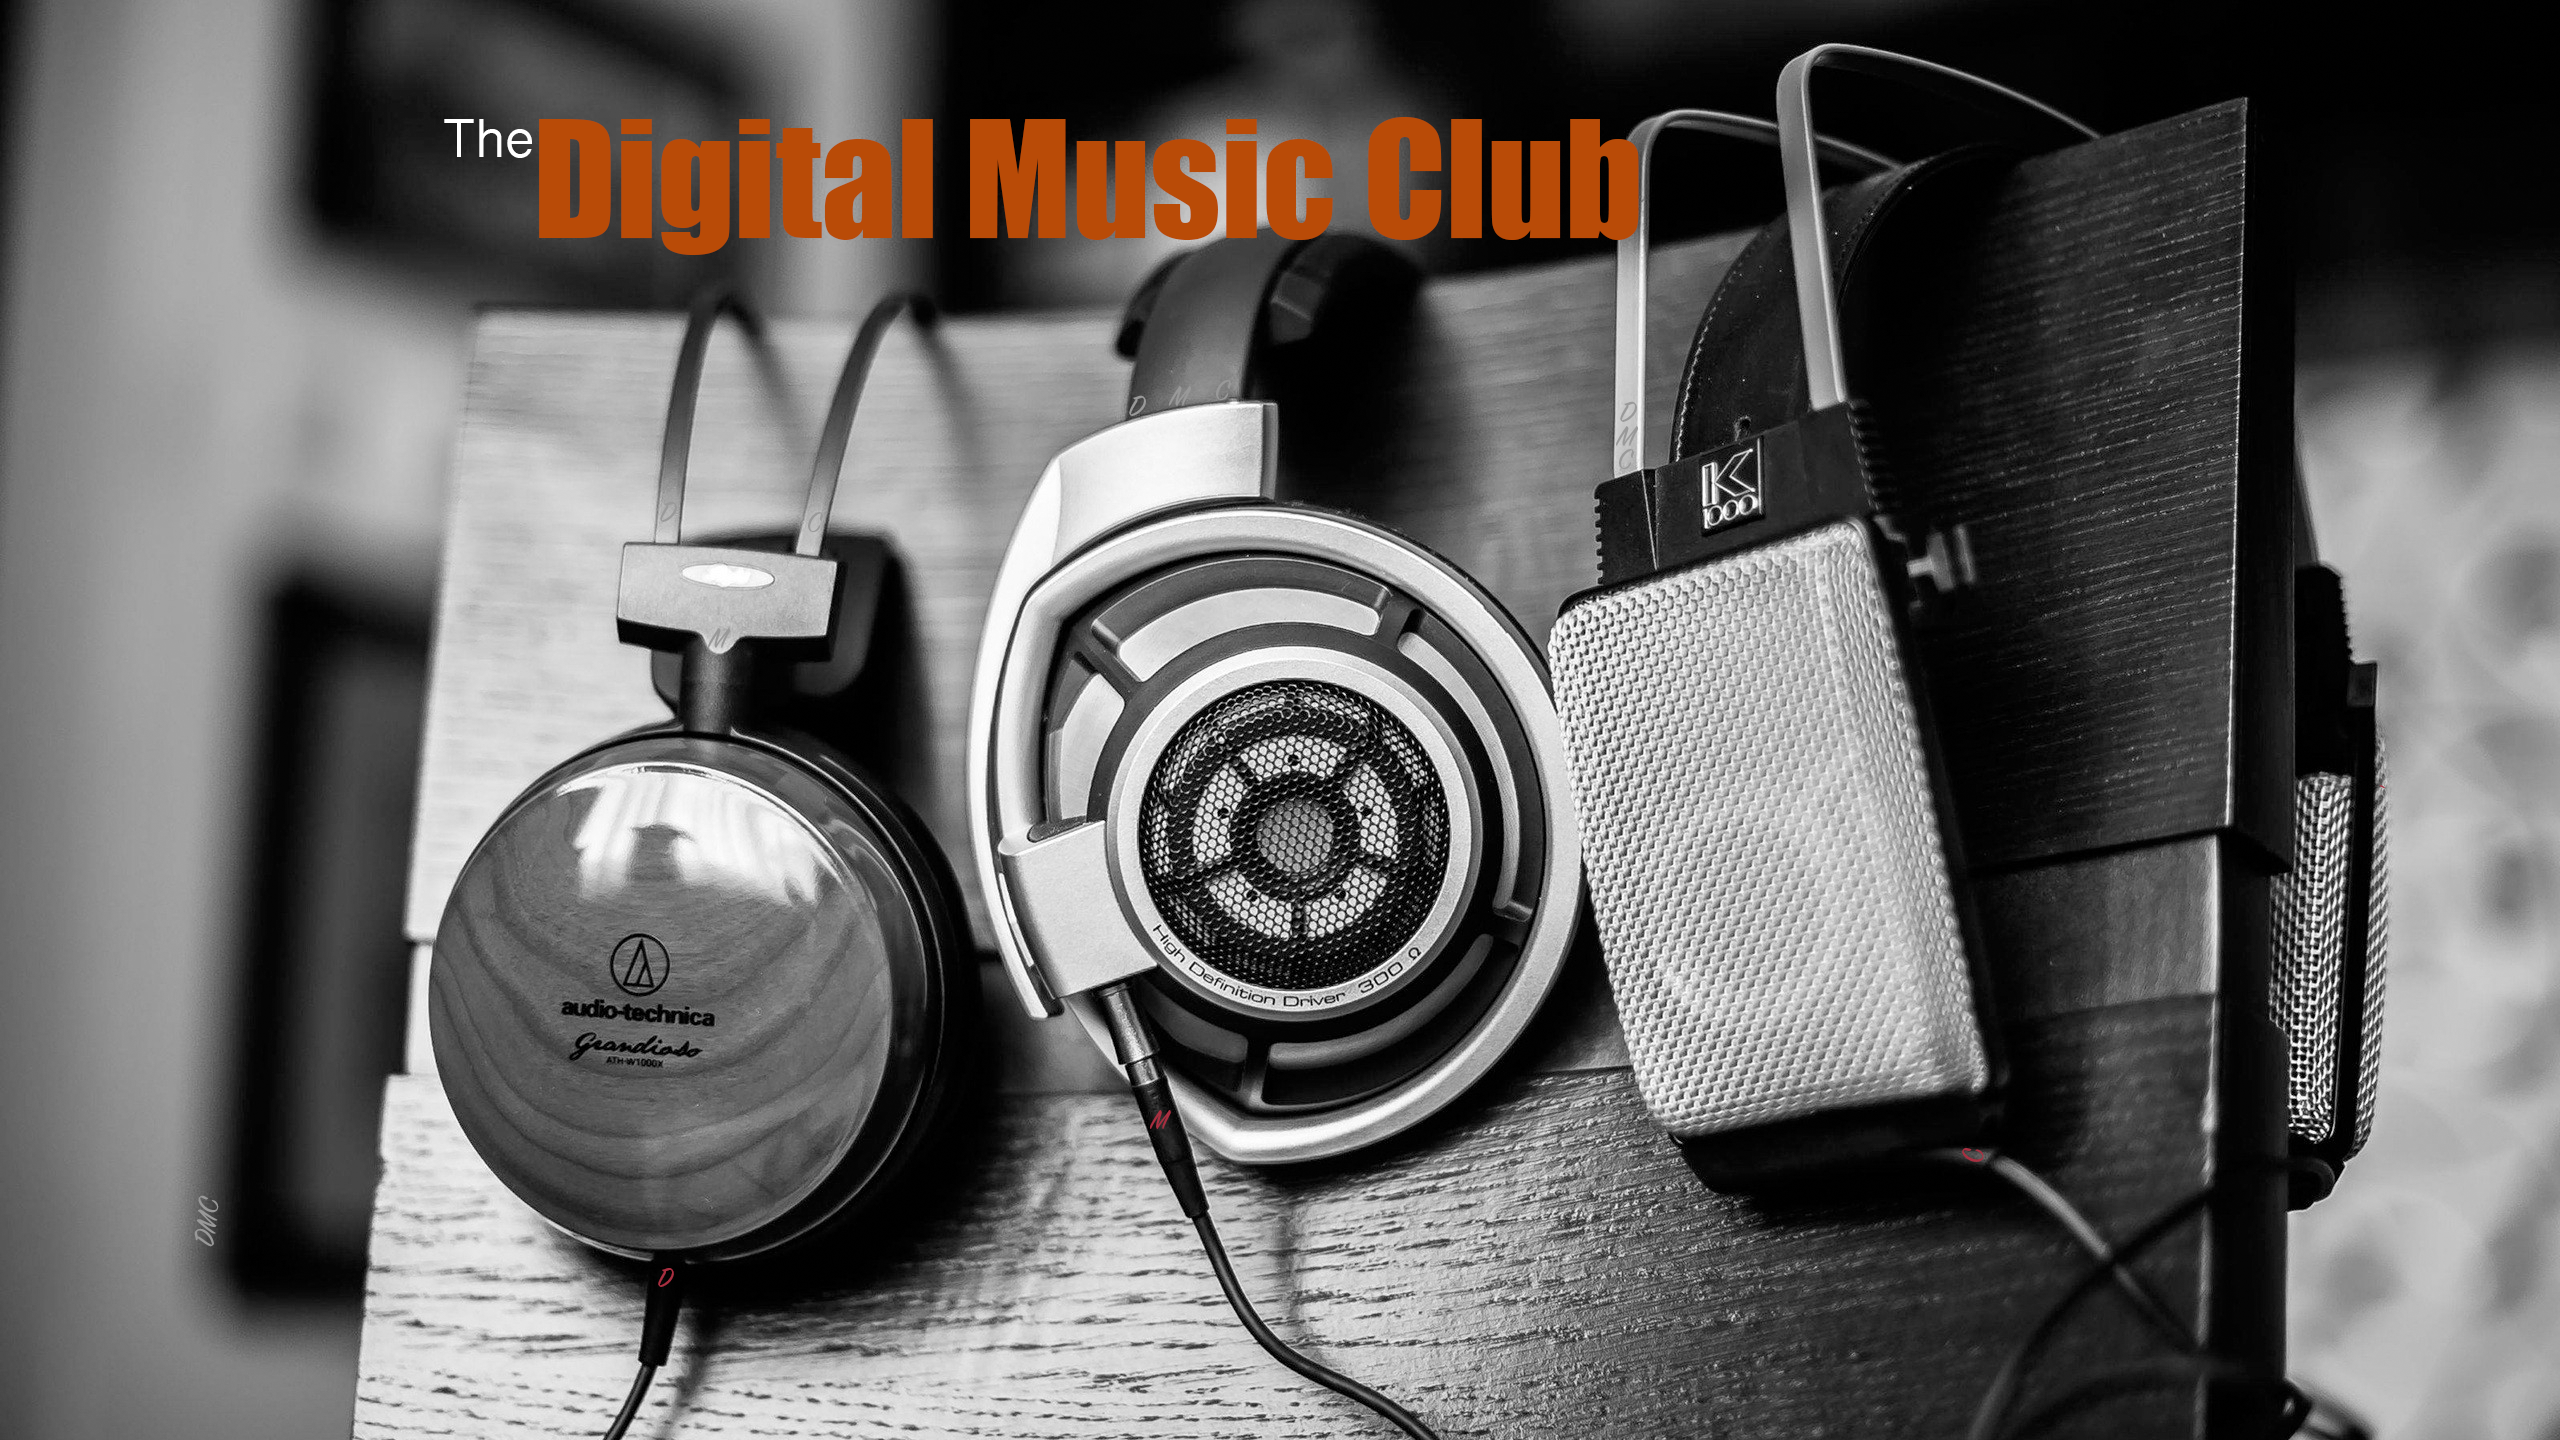
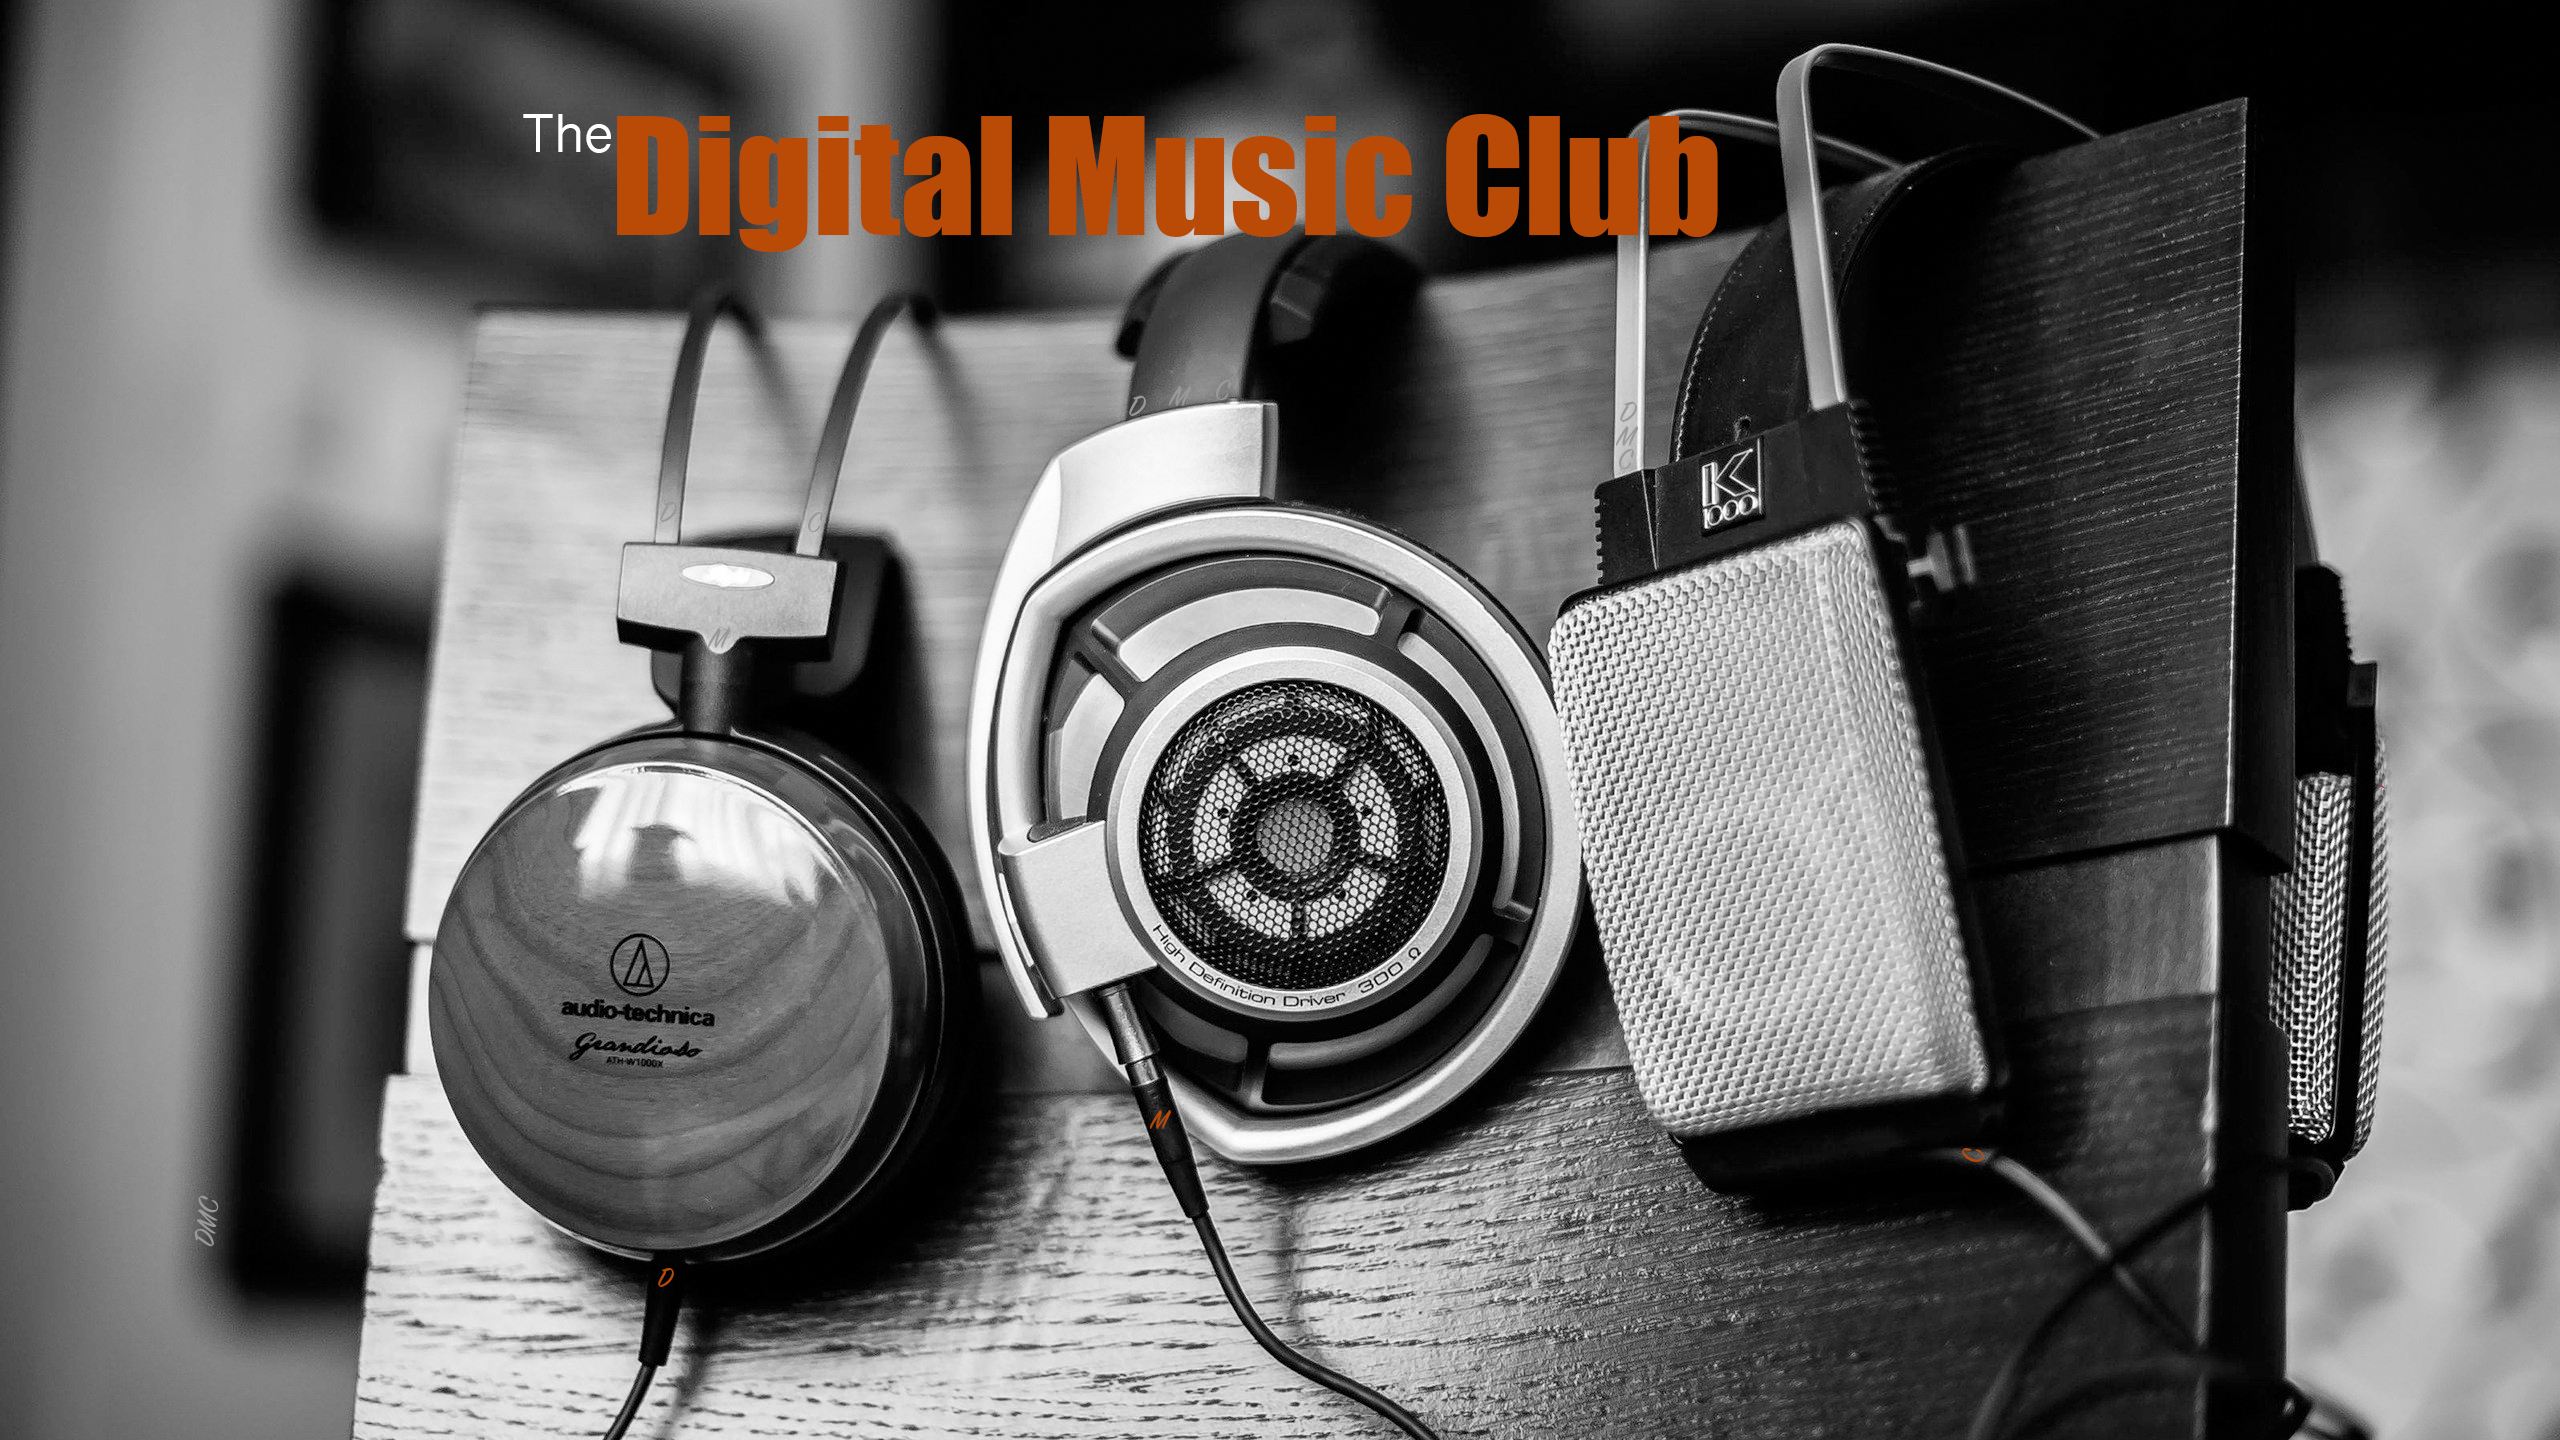
styling changes

Changed region(s): [[0.1875, 0.0625, 0.6875, 0.1875]]

diff --git a/app/assets/stylesheets/welcome.css.scss b/app/assets/stylesheets/welcome.css.scss
@@ -7,6 +7,7 @@
 
 html, body {
   min-height: 100%;
+  overflow: hidden;
 
 }
 
@@ -138,6 +139,15 @@ a {
       -o-transform: rotate(90deg);
       writing-mode: tb-rl;
     }
+    #clickable4 {
+      display: block;
+      width: 15%;
+      margin-left: -28%;
+      margin-bottom: 5%;
+      height: 35%;
+      border-radius: 27%;
+      cursor: pointer;
+    }
 }
 
 .close-menu {
@@ -217,7 +227,7 @@ input#request {
 }
 
 #signup #request:hover {
-  background: rgba(241, 93, 88, 0.8);
+  background: rgba(200, 62, 0, 0.8);
 }
 
 #signup #request:focus {
@@ -261,7 +271,7 @@ input#request {
 
 #signup .email-send.email-send-show:hover {
   //    opacity: 0.8;
-  background: rgb(241, 93, 88);
+  background: rgba(200, 62, 0, 0.8);
   color: white;
 }
 
@@ -317,7 +327,7 @@ input#request {
 }
 
 #new-submission:hover {
-  background: rgba(241, 93, 88, 0.8);
+  background: rgba(200, 62, 0, 0.8);
 
 }
 
@@ -370,12 +380,12 @@ footer {
 }
 
 .toggle-footer {
-  display: initial;
-  position: absolute;
-  left: 48%;
+  left: 54%;
   width: 110px;
   bottom: 0px;
-  font-size: 5.35em;
+  font-size: 3.35em;
+  display: initial;
+  position: absolute;
   font-family: 'Impact';
   letter-spacing: 57px;
   cursor: pointer;
